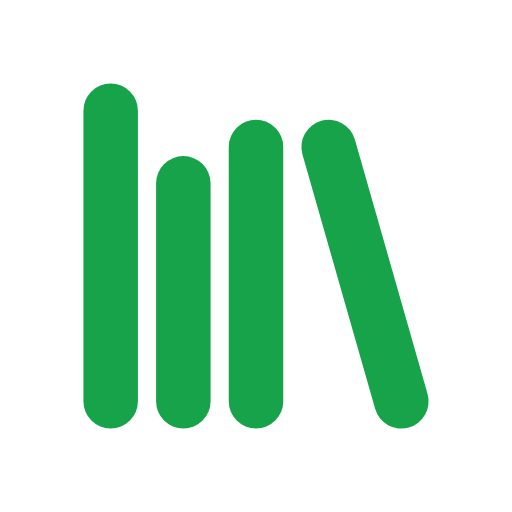
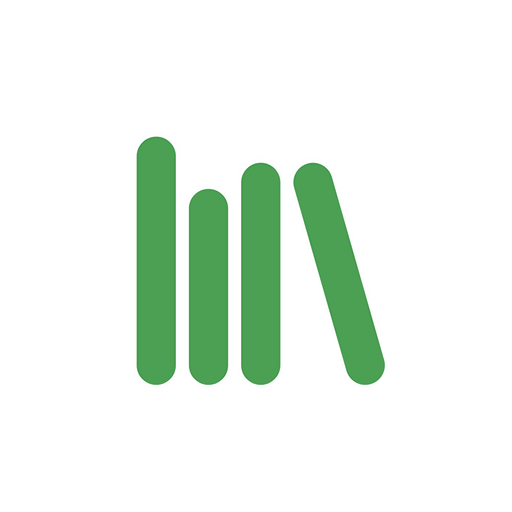
iconの修正 #65

Changed region(s): [[0.1562, 0.1562, 0.8438, 0.8438]]

diff --git a/vite.config.js b/vite.config.js
@@ -15,11 +15,14 @@ export default defineConfig({
       registerType: 'autoUpdate',
       includeAssets: ['favicon.svg', 'apple-touch-icon.png'],
       injectRegister: 'auto',
+      lang: 'ja',
+      start_url: 'index.html',
+      display: 'standalone',
       manifest: {
         name: 'リブラク',
         short_name: 'リブラク', // ホーム画面に追加した時に表示される名前
         description: '図書館ユーザーのための書籍検索アプリ',
-        theme_color: '#ffffff',
+        theme_color: '#16a34a',
         background_color: '#ffffff',
         // 各サイズごとのアイコンは下記で生成する。
         // https://www.pwabuilder.com/imageGenerator
